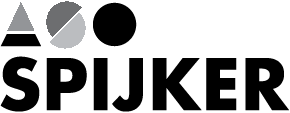
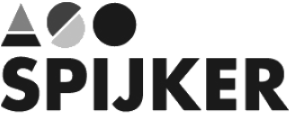
grayscale

diff --git a/README.md b/README.md
@@ -57,10 +57,10 @@ v = verplicht, o = optioneel, - = niet getoond
 
 | Syntax | RGB | grijswaarde |
 | ----------- | ----------- | ----------- |
-| `spijker-blauw` | {0,171,200} | {0.00} |
-| `spijker-geel` | {255,213,77} | {0.70} |
+| `spijker-blauw` | {0,171,200} | {0.10} |
+| `spijker-geel` | {255,213,77} | {0.80} |
 | `spijker-rood` | {228,102,88} | {0.30} |
-| `spijker-lichtrood` | {246,176,135} | {0.50} |
+| `spijker-lichtrood` | {246,176,135} | {0.60} |
 
 Extra varianten
  * 15% donkerder: `spijker-donkerblauw`, `spijker-donkergeel`, `spijker-donkerrood`
